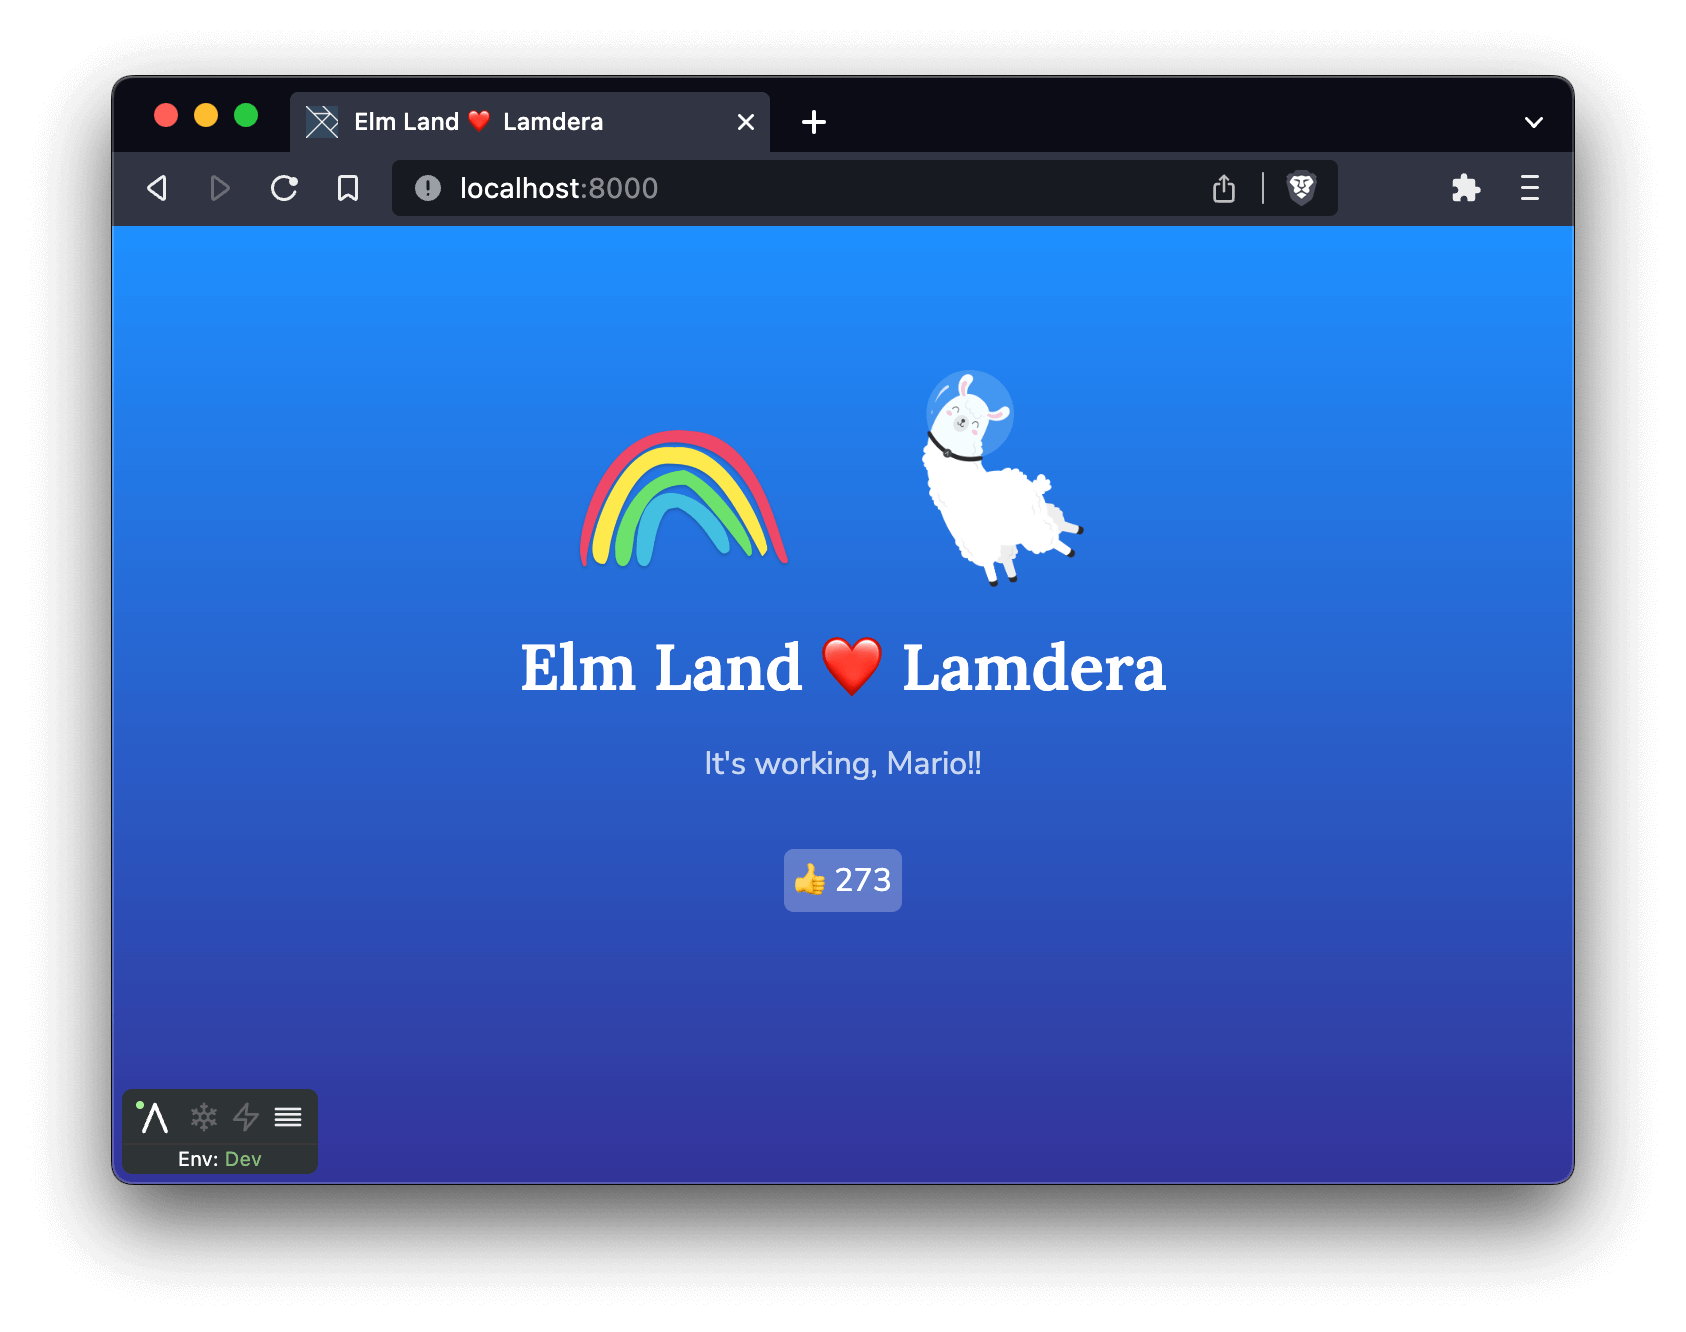
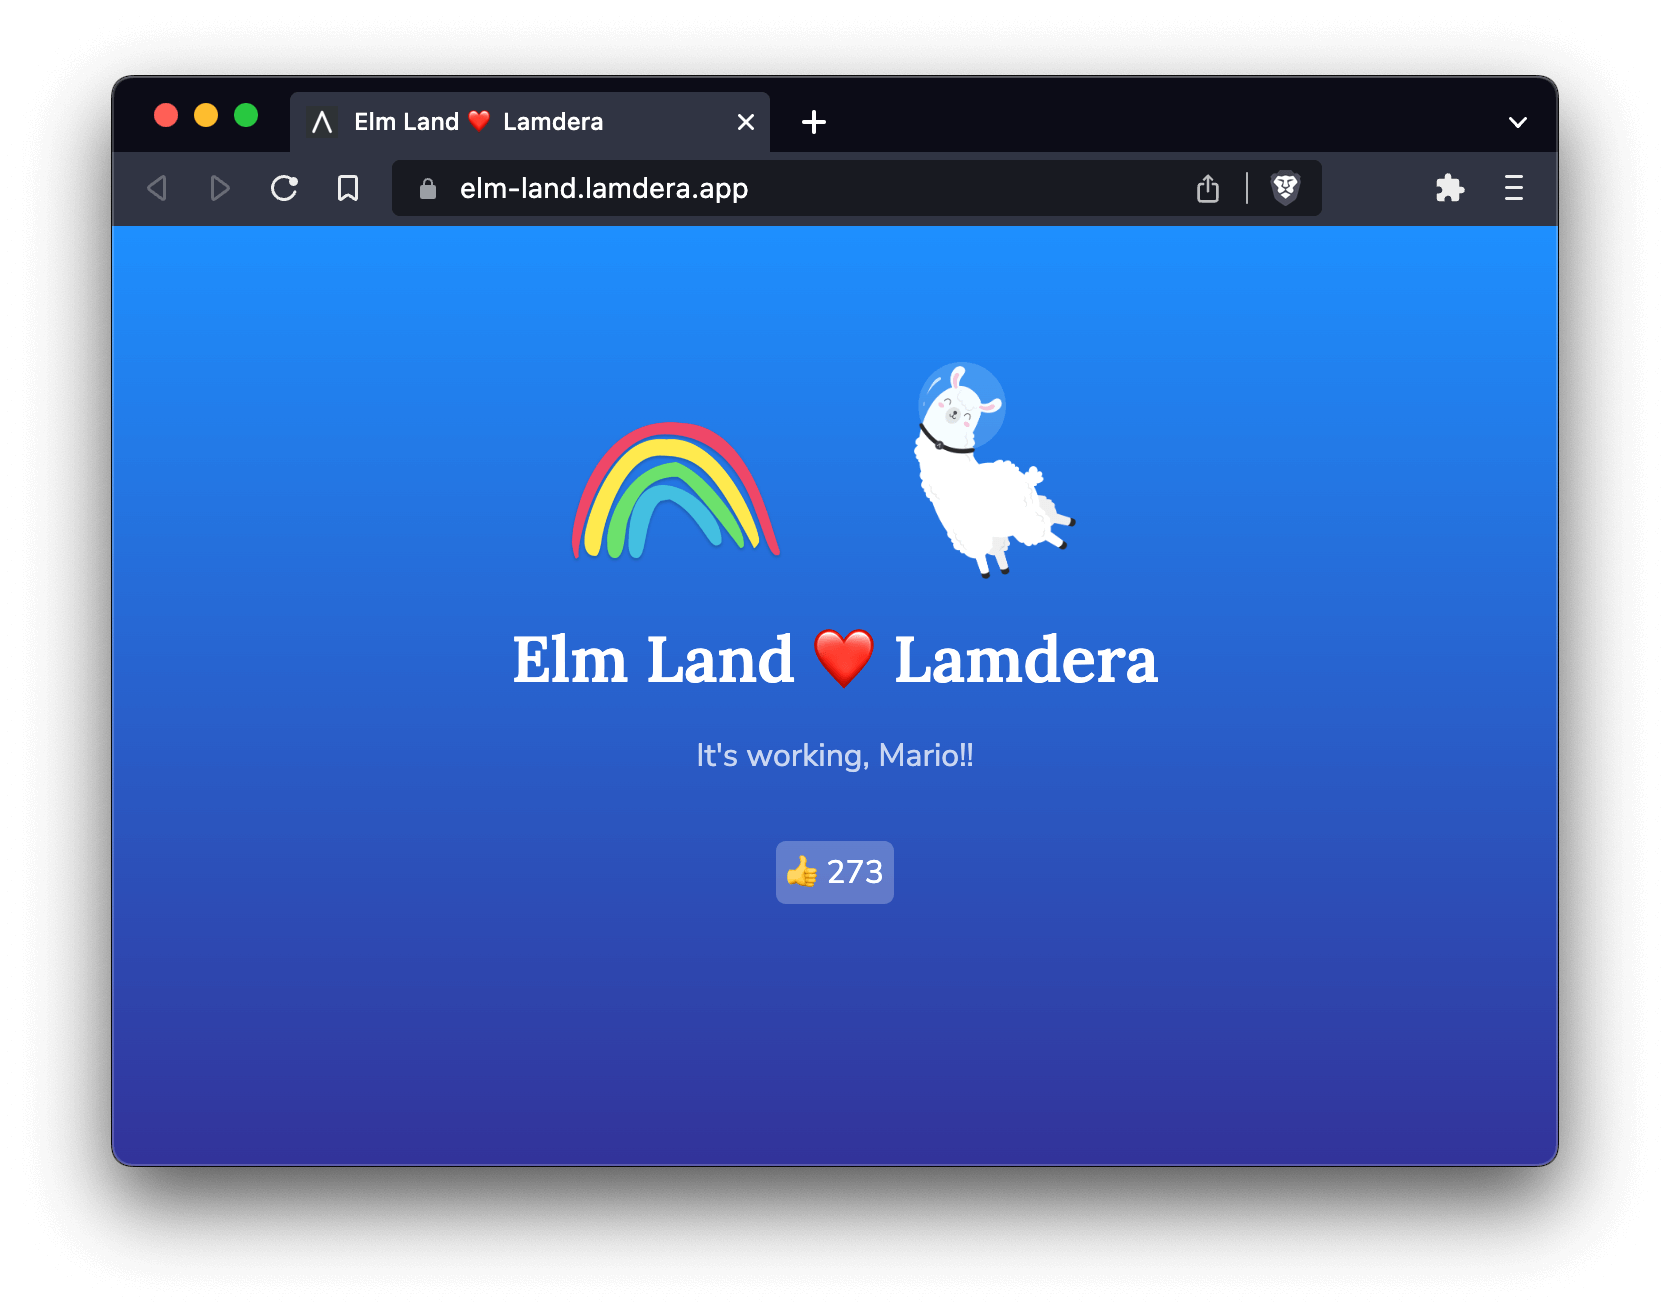
Add live demo URL and update screenshot

diff --git a/README.md b/README.md
@@ -3,6 +3,8 @@
 
 ![A screenshot of the app running](./screenshot.png)
 
+Live demo: https://elm-land.lamdera.app
+
 ## Local development
 
 Once you have the latest Lamdera and Elm Land v0.19.0 on your local machine, you can run this project with two separate commands:
